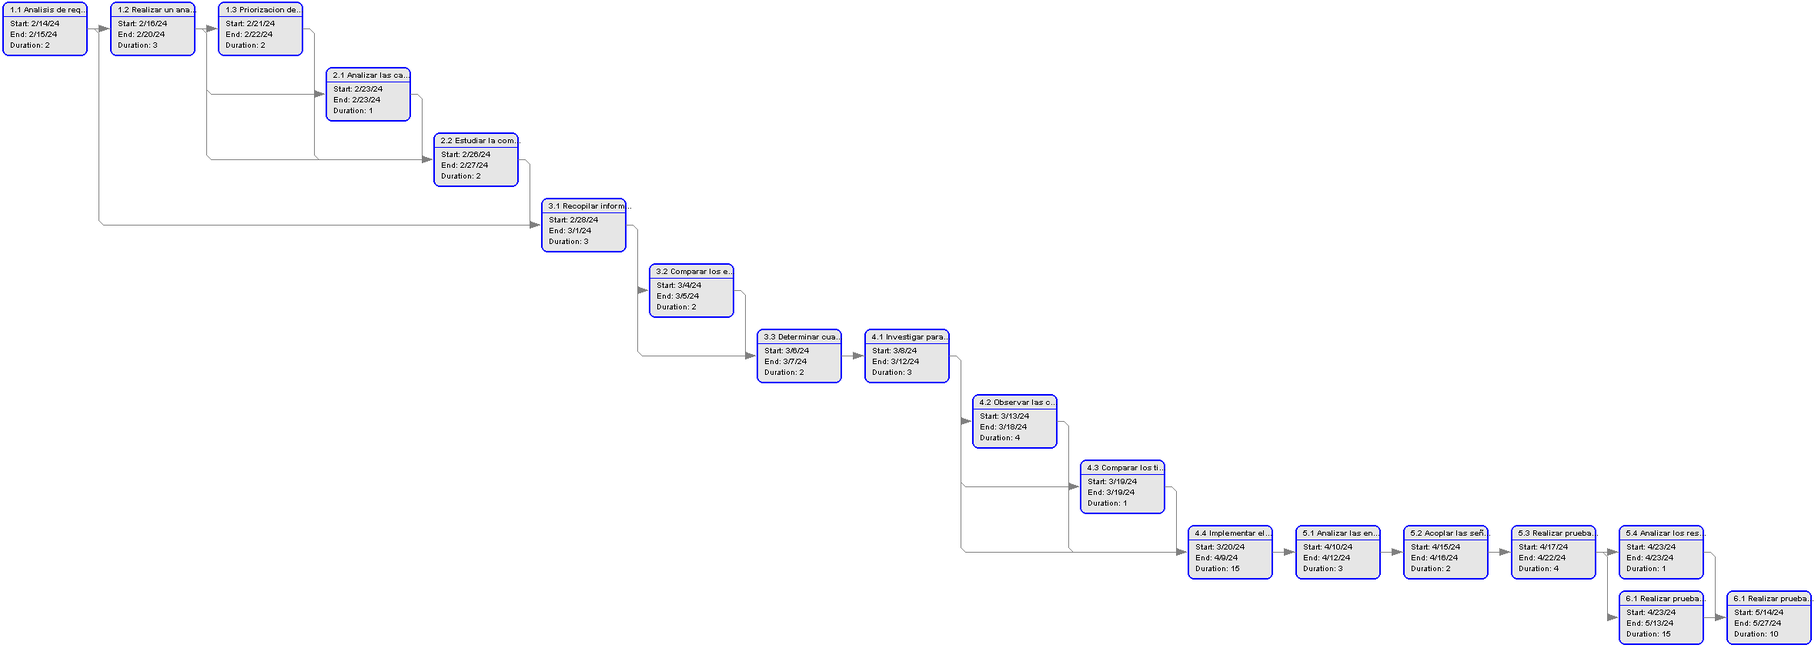
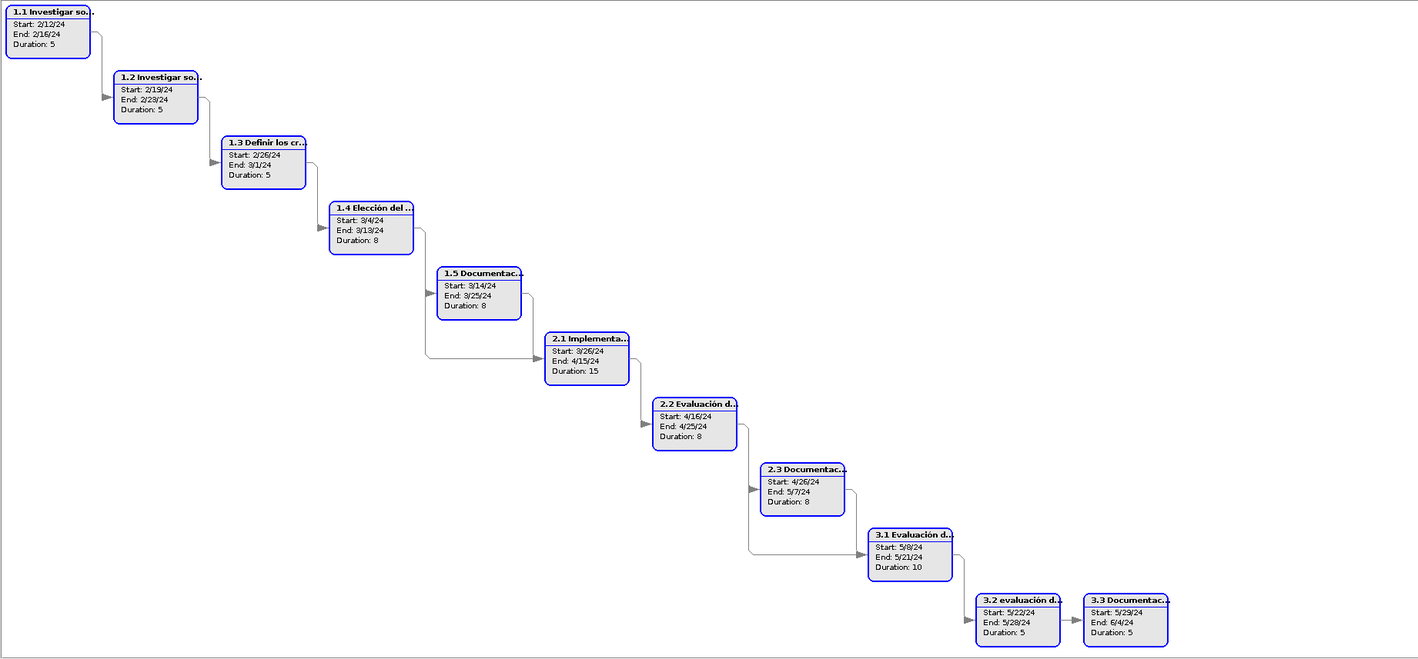
Entrega de anteproyecto David Duarte Tec Digital

Changed region(s): [[0.0, 0.0, 1.0, 1.0]]

diff --git a/Borrador_Anteproyecto_Duarte_Sanchez_David_Felipe/Borrador_Anteproyecto_David_Duarte.tex b/Borrador_Anteproyecto_Duarte_Sanchez_David_Felipe/Borrador_Anteproyecto_David_Duarte.tex
@@ -136,11 +136,11 @@ En el diseño de software del sistema de control, cada uno de los controladores 
 \subsection{Generalidades}
 
 
-
 %Explica el propósito de adquisicion de datos en tiempo real
 
-Las plataformas en tiempo real para control, lo cual lleva a trasladar todas estas aplicaciones a SoC de alto rendimiento tomando en cuenta que un manejo eficiente del entorno en tiempo real tiene la capacidad de acelerar las diversas tareas de control. También se debe de garantizar las restricciones temporales para ejecutar las actividades en tiempo real y asegurar que el sistema operativo tiene un comportamiento predecible. Para garantizar el cumplimiento de las restricciones es necesario realizar un análisis que permita conocer si las restricciones impuestas se van a cumplir en cualquier situación. Esto se realiza en función de como y cuando se toman las decisiones de planificación. Se dividen en dos grupos, Off-Line lo que indica que las decisiones se tomaron en la etapa de diseño y On Line cuando las decisiones se toman durante la ejecución.
+Los sistemas en tiempo real se caracterizan en sistemas críticos y acríticos, los sistemas críticos son en los que las acciones del sistema se deben de producir dentro del plazo de ejecución de la tarea. De no cumplir la tarea en el plazo establecido, ocurren fallos en la operación del sistema y perdida de datos. Se pueden encontrar en sistemas aeronáuticos, control de satélites y procesos industriales. Por otro lado, los sistemas acríticos la perdida o retraso en alguno de los plazos ocasiona que el sistema tenga una degradación durante algunos ciclos de operación, para luego recuperarse y continuar operando de forma normal \cite{de2000introduccion} \cite{alonso2010panoramica}.
 
+Las plataformas en tiempo real para aplicaciones en control automático, se implementan en SoC de alto rendimiento tomando en cuenta que un manejo eficiente del entorno en tiempo real tiene la capacidad de acelerar las diversas tareas de control. También se debe de garantizar las restricciones temporales para ejecutar las actividades en tiempo real y asegurar que el sistema operativo tiene un comportamiento predecible. Para garantizar el cumplimiento de las restricciones es necesario realizar un análisis que permita conocer si las restricciones impuestas se van a cumplir en cualquier situación. Esto se realiza en función de como y cuando se toman las decisiones de planificación. Se dividen en dos grupos, Off-Line lo que indica que las decisiones se tomaron en la etapa de diseño y On Line cuando las decisiones se toman durante la ejecución \cite{munoz1994extensiones} \cite{alonso2010panoramica}.
 
 
 \subsection{Síntesis del problema}
@@ -159,14 +159,14 @@ Con una matriz de Pugh se analizan caminos de solución, con el objetivo de sele
 
 %Diseñar una plataforma de trabajo para un sistema embebido que logre ejecutar en tiempo real un sistema de control automático neuronal.
 
-Como primera alternativa, se plantea el diseño de una plataforma de trabajo para un sistema embebido, que logre ejecutar en tiempo real, un sistema de control automático neuronal
+Se plantea el diseño de una plataforma de trabajo para un sistema embebido, que logre ejecutar en tiempo real, un sistema de control automático neuronal mediante un acelerador de hardware. Para esta alternativa se propone el uso de un sistema propietario, un hardware dedicado que funciona con un software propietario para mejorar el rendimiento de tareas\cite{zhao2017hardware} \cite{shi2011vcuda}. Mediante el uso de TPU con el fin de acelerar operaciones de aprendizaje automático. Utilizando estos sistemas se obtiene un rendimiento optimizado, ya que trabajan de forma eficiente y optimizada con el hardware específico, también una integración profunda lo cual facilita el desarrollo, por tanto, tienden a ser sistemas más rápidos, finalmente, los sistemas propietarios en algunos casos proveen soporte del fabricante. Por otro lado, experimentan bloqueos de proveedor, lo que limita la flexibilidad e interoperabilidad de interactuar con otros sistemas \cite{deng2020model} \cite{duato2011enabling}.
 
 \subsection{Alternativa 2}
 
-Como segunda alternativa se propone hacer uso de aprendizaje automático para construir una plataforma de trabajo para un sistema embebido que logre ejecutar en tiempo real un sistema de control automatico neuronal
-
+Se plantea el diseño de una plataforma de trabajo para un sistema embebido, que logre ejecutar en tiempo real, un sistema de control automático neuronal mediante un acelerador de hardware. En este caso se propone el uso de un sistema abierto, buscando mejorar el rendimiento y la eficiencia de los sistemas mediante la utilización de hardware especializado, pero garantizando que el desarrollo y diseño sea abierto \cite{scarpino2011opencl} \cite{owaida2011massively}. El uso de la TPU permite acelerar las operaciones de aprendizaje automático, el controlador neuronal y mejorar los parámetros de tasa de muestreo, jitter de entrada y jitter de salida. Además, nos permite tener más transparencia al operar con el sistema, tomando en cuenta la flexibilidad del sistema y personalización permitiendo la adaptación del hardware a necesidades específicas y el costo reducido al implementar esta alternativa. Por otro lado, los sistemas abiertos no presentan soporte por parte del fabricante, también no siempre van a proporcionar el mismo nivel de rendimiento que las soluciones propietarias \cite{meyer2020evaluating} \cite{verma2016accelerating}.
 
 \subsection{Alternativa 3}
+Se plantea el diseño de una plataforma de trabajo para un sistema embebido, que logre ejecutar en tiempo real, un sistema de control automático neuronal mediante aceleración de software, mejorando de esta forma la eficiencia y velocidad de ejecución \cite{galan2000control}. Mediante variables como la optimización de código, paralelización de tareas e implementando técnicas de caché y preprocesamiento. Se podrá tener una respuesta rápida y optimización de recursos. Por otro lado, aspectos como la dificultad de depuración, fallos críticos y limitantes a nivel de hardware son algunas de las desventajas de esta implementación \cite{kim1994software} \cite{razdan1994prisc}.
 
 
 \subsection{Selección de la solución}
@@ -177,34 +177,40 @@ Matriz de pugh que compara las 3 alternativas Cuadro \ref{tab:pugh}.
 % \usepackage[table,xcdraw]{xcolor}
 % Beamer presentation requires \usepackage{colortbl} instead of \usepackage[table,xcdraw]{xcolor}
 \begin{table}[!h]
+% Please add the following required packages to your document preamble:
+
   \centering
   \caption{Matriz de Pugh para la selección de la solución}
   \label{tab:pugh}
-  \begin{tabular}{lllll}
-    \cline{2-5}
-    \multicolumn{1}{l|}{}                                                             & \multicolumn{1}{l|}{\cellcolor[HTML]{DAE8FC}Peso} & \multicolumn{1}{l|}{\cellcolor[HTML]{DAE8FC}Alternativa 1} & \multicolumn{1}{l|}{\cellcolor[HTML]{DAE8FC}Alternativa 2} & \multicolumn{1}{l|}{\cellcolor[HTML]{DAE8FC}Alternativa 3} \\ \hline
-    \multicolumn{1}{|l|}{\cellcolor[HTML]{DAE8FC}Criterios}                           & \multicolumn{1}{l|}{\cellcolor[HTML]{CBCEFB}}     & \multicolumn{1}{l|}{}                                      & \multicolumn{1}{l|}{}                                      & \multicolumn{1}{l|}{}                                      \\ \hline
-    \multicolumn{1}{|l|}{\cellcolor[HTML]{DAE8FC}Ejecución en tiempo real}            & \multicolumn{1}{l|}{\cellcolor[HTML]{CBCEFB}5}    & \multicolumn{1}{l|}{$=$}                                   & \multicolumn{1}{l|}{0}                                     & \multicolumn{1}{l|}{0}                                     \\ \hline
-    \multicolumn{1}{|l|}{\cellcolor[HTML]{DAE8FC}Seguridad e integridad de la planta} & \multicolumn{1}{l|}{\cellcolor[HTML]{CBCEFB}5}    & \multicolumn{1}{l|}{$=$}                                   & \multicolumn{1}{l|}{0}                                     & \multicolumn{1}{l|}{$-1$}                                  \\ \hline
-    \multicolumn{1}{|l|}{\cellcolor[HTML]{DAE8FC}Porteabilidad de la solución}        & \multicolumn{1}{l|}{\cellcolor[HTML]{CBCEFB}5}    & \multicolumn{1}{l|}{$=$}                                   & \multicolumn{1}{l|}{$+1$}                                  & \multicolumn{1}{l|}{$-1$}                                  \\ \hline
-    \multicolumn{1}{|l|}{\cellcolor[HTML]{DAE8FC}Ajuste de parametros}                & \multicolumn{1}{l|}{\cellcolor[HTML]{CBCEFB}3}    & \multicolumn{1}{l|}{$=$}                                   & \multicolumn{1}{l|}{$+1$}                                  & \multicolumn{1}{l|}{$+1$}                                  \\ \hline
-    \multicolumn{1}{|l|}{\cellcolor[HTML]{DAE8FC}Tiempo de desarrollo}                & \multicolumn{1}{l|}{\cellcolor[HTML]{CBCEFB}2}    & \multicolumn{1}{l|}{$=$}                                   & \multicolumn{1}{l|}{$-1$}                                  & \multicolumn{1}{l|}{$+1$}                                  \\ \hline
-    \multicolumn{1}{|l|}{\cellcolor[HTML]{DAE8FC}Coste Económico}                     & \multicolumn{1}{l|}{\cellcolor[HTML]{CBCEFB}4}    & \multicolumn{1}{l|}{$=$}                                   & \multicolumn{1}{l|}{$+1$}                                  & \multicolumn{1}{l|}{$-1$}                                  \\ \hline
-                                                                                      &                                                   &                                                            &                                                            &                                                            \\ \cline{1-1} \cline{3-5}
-    \multicolumn{1}{|l|}{\cellcolor[HTML]{DAE8FC}Suma General}                        & \multicolumn{1}{l|}{}                             & \multicolumn{1}{l|}{0}                                     & \multicolumn{1}{l|}{10}                                    & \multicolumn{1}{l|}{$-9$}                                  \\ \cline{1-1} \cline{3-5}
-    \multicolumn{1}{|l|}{\cellcolor[HTML]{DAE8FC}Posición}                            & \multicolumn{1}{l|}{}                             & \multicolumn{1}{l|}{2}                                     & \multicolumn{1}{l|}{1}                                     & \multicolumn{1}{l|}{3}                                     \\ \cline{1-1} \cline{3-5}
+  \begin{tabular}{ccccc}
+  \cline{2-5}
+  \multicolumn{1}{l|}{} & \multicolumn{1}{c|}{\cellcolor[HTML]{DAE8FC}} & \multicolumn{1}{c|}{\cellcolor[HTML]{DAE8FC}} & \multicolumn{1}{c|}{\cellcolor[HTML]{DAE8FC}} & \multicolumn{1}{c|}{\cellcolor[HTML]{DAE8FC}} \\ \cline{1-1}
+  \rowcolor[HTML]{DAE8FC} 
+  \multicolumn{1}{|c|}{\cellcolor[HTML]{DAE8FC}Criterios} & \multicolumn{1}{c|}{\multirow{-2}{*}{\cellcolor[HTML]{DAE8FC}Peso}} & \multicolumn{1}{c|}{\multirow{-2}{*}{\cellcolor[HTML]{DAE8FC}Alternativa 1}} & \multicolumn{1}{c|}{\multirow{-2}{*}{\cellcolor[HTML]{DAE8FC}Alternativa 2}} & \multicolumn{1}{c|}{\multirow{-2}{*}{\cellcolor[HTML]{DAE8FC}Alternativa 3}} \\ \hline
+  \multicolumn{1}{|c|}{\cellcolor[HTML]{DAE8FC}\begin{tabular}[c]{@{}c@{}}Transparencia de \\ operación\end{tabular}} & \multicolumn{1}{c|}{\cellcolor[HTML]{CBCEFB}3} & \multicolumn{1}{c|}{-1} & \multicolumn{1}{c|}{+1} & \multicolumn{1}{c|}{=} \\ \hline
+  \multicolumn{1}{|c|}{\cellcolor[HTML]{DAE8FC}\begin{tabular}[c]{@{}c@{}}Flexibilidad y\\ Personalización\end{tabular}} & \multicolumn{1}{c|}{\cellcolor[HTML]{CBCEFB}5} & \multicolumn{1}{c|}{-1} & \multicolumn{1}{c|}{+1} & \multicolumn{1}{c|}{=} \\ \hline
+  \multicolumn{1}{|c|}{\cellcolor[HTML]{DAE8FC}\begin{tabular}[c]{@{}c@{}}Costo de \\ implementación\end{tabular}} & \multicolumn{1}{c|}{\cellcolor[HTML]{CBCEFB}5} & \multicolumn{1}{c|}{-1} & \multicolumn{1}{c|}{+1} & \multicolumn{1}{c|}{=} \\ \hline
+  \multicolumn{1}{|c|}{\cellcolor[HTML]{DAE8FC}Rendimiento} & \multicolumn{1}{c|}{\cellcolor[HTML]{CBCEFB}5} & \multicolumn{1}{c|}{+1} & \multicolumn{1}{c|}{+1} & \multicolumn{1}{c|}{-1} \\ \hline
+  \multicolumn{1}{|c|}{\cellcolor[HTML]{DAE8FC}Mantenibilidad} & \multicolumn{1}{c|}{\cellcolor[HTML]{CBCEFB}4} & \multicolumn{1}{c|}{+1} & \multicolumn{1}{c|}{-1} & \multicolumn{1}{c|}{-1} \\ \hline
+  \multicolumn{1}{|c|}{\cellcolor[HTML]{DAE8FC}Innovación} & \multicolumn{1}{c|}{\cellcolor[HTML]{CBCEFB}5} & \multicolumn{1}{c|}{+1} & \multicolumn{1}{c|}{+1} & \multicolumn{1}{c|}{-1} \\ \hline
+  \multicolumn{1}{|c|}{\cellcolor[HTML]{DAE8FC}\begin{tabular}[c]{@{}c@{}}Porteabilidad de \\ la solución\end{tabular}} & \multicolumn{1}{c|}{\cellcolor[HTML]{CBCEFB}4} & \multicolumn{1}{c|}{-1} & \multicolumn{1}{c|}{+1} & \multicolumn{1}{c|}{-1} \\ \hline
+  \multicolumn{1}{|c|}{\cellcolor[HTML]{DAE8FC}Coste Económico} & \multicolumn{1}{c|}{\cellcolor[HTML]{CBCEFB}3} & \multicolumn{1}{c|}{-1} & \multicolumn{1}{c|}{+1} & \multicolumn{1}{c|}{=} \\ \hline
+  \multicolumn{1}{|c|}{\cellcolor[HTML]{DAE8FC}\begin{tabular}[c]{@{}c@{}}Ajuste de \\ parámetros\end{tabular}} & \multicolumn{1}{c|}{\cellcolor[HTML]{CBCEFB}5} & \multicolumn{1}{c|}{+1} & \multicolumn{1}{c|}{+1} & \multicolumn{1}{c|}{+1} \\ \hline
+  \multicolumn{1}{|c|}{\cellcolor[HTML]{DAE8FC}\begin{tabular}[c]{@{}c@{}}Ejecución en \\ tiempo real\end{tabular}} & \multicolumn{1}{c|}{\cellcolor[HTML]{CBCEFB}5} & \multicolumn{1}{c|}{+1} & \multicolumn{1}{c|}{+1} & \multicolumn{1}{c|}{+1} \\ \hline
+  \multicolumn{1}{l}{} & \multicolumn{1}{l}{} & \multicolumn{1}{l}{} & \multicolumn{1}{l}{} & \multicolumn{1}{l}{} \\ \cline{1-1} \cline{3-5} 
+  \multicolumn{1}{|c|}{\cellcolor[HTML]{DAE8FC}Suma General} & \multicolumn{1}{c|}{} & \multicolumn{1}{c|}{4} & \multicolumn{1}{c|}{36} & \multicolumn{1}{c|}{-8} \\ \cline{1-1} \cline{3-5} 
+  \multicolumn{1}{|c|}{\cellcolor[HTML]{DAE8FC}Posición} & \multicolumn{1}{c|}{} & \multicolumn{1}{c|}{2} & \multicolumn{1}{c|}{1} & \multicolumn{1}{c|}{3} \\ \cline{1-1} \cline{3-5} 
   \end{tabular}
-\end{table}
+  \end{table}
 
 
-Cuando se realiza el análisis de la Matriz de Pugh se puede determinar que en aspectos como lo son ajustes de parámetros o innovación la Alternativa 2 y 3 se encuentran empatadas ya que hay que recordar que lo que difiere entre estas dos opciones es el método de implementación, por un lado en la Alternativa 2 se propone el uso de un software agnóstico de Hardware como base del diseño mientras que en la Alternativa 3 se plantea el uso de un método mas tradicional y dependiente del hardware, eliminando virtudes de la alternativa 2 como lo era la portabilidad de la solución a otros sistemas de control sin importar sobre el hardware que se ejecutara el mismo. Es por esto que criterios como lo fueron el costo económico terminaron de inclinar la balanza por el uso de la Alternativa 2.
-
+Cuando se realiza el análisis de la Matriz de Pugh se puede determinar que en aspectos como lo son ajustes de parámetros o innovación la Alternativa 2 y 3 se encuentran empatadas, ya que hay que recordar que lo que difiere entre estas dos opciones es el método de implementación, por un lado, en la Alternativa 2 se propone el uso de un software agnóstico de Hardware como base del diseño mientras que en la Alternativa 3 se plantea el uso de un método más tradicional y dependiente del hardware, eliminando virtudes de la alternativa 2 como lo era la portabilidad de la solución a otros sistemas de control sin importar sobre el hardware que se ejecutara el mismo. Es por esto que criterios como lo fueron el costo económico terminaron de inclinar la balanza por el uso de la Alternativa 2.
 
 \section{Objetivo General}
 
 Diseñar una plataforma de trabajo para un sistema embebido que logre ejecutar en tiempo real un sistema de control automático neuronal.
 
-\textbf{Indicador:} Cumplir al menos un 90 \% de las métricas especificadas en la Cuadro \ref{tab:obj_1}.\newline
+\textbf{Indicador:} Cumplir al menos un 90 \% de las métricas especificadas en el Cuadro \ref{tab:obj_1}.\newline
 \textbf{Entregable:} .
 
 
@@ -215,7 +221,7 @@ Diseñar una plataforma de trabajo para un sistema embebido que logre ejecutar e
   \begin{tabular}{|l|}
     \hline
     \rowcolor[HTML]{DAE8FC} 
-    Requerimientos \\ \hline
+    Requisitos \\ \hline
     Latencia menor a 50 ms\\ \hline
     Tasa de éxito de transmisión de al menos un 90\%\\ \hline
     Disponibilidad del sistema de al menos un 85 \% \\ \hline
@@ -235,7 +241,7 @@ Diseñar una plataforma de trabajo para un sistema embebido que logre ejecutar e
         \textbf{Indicador:} Se genera una matriz de Pugh con al menos 6 criterios.\newline
         \textbf{Entregable:} Matriz de Pugh con al menos 6 criterios a evaluar del sistema en tiempo real y la plataforma seleccionada.
   \item Implementar la plataforma seleccionada \newline
-        \textbf{Indicador:} Se hace la implementación y se verifica que la misma cumpla con los requerimientos del Cuadro \ref{tab:obj_1}.\newline
+        \textbf{Indicador:} Se hace la implementación y se verifica que la misma cumpla con los requisitos del Cuadro \ref{tab:obj_1}.\newline
         \textbf{Entregable:} El sistema implementado.
   \item Evaluar la plataforma seleccionada \newline
         \textbf{Indicador:} Se evaluan al menos 3 configuraciones del sistema y se utilizan al menos 3 métricas para la evaluación del desempeño de las mismas.\newline
@@ -244,7 +250,7 @@ Diseñar una plataforma de trabajo para un sistema embebido que logre ejecutar e
 
 \section{Procedimiento para la ejecución del proyecto}
 
-Sobre la ejecución del proyecto se planifican las actividades de forma jerárquica, en donde se establecen actividades según los objetivos planteados, los requisitos de las actividades y la dependencia que tenga este mismo con alguna actividad previa. Además de esto se definen los tiempos de duración de las actividades las cuales se resumen en la Cuadro \ref{tab:actividades}.
+Sobre la ejecución del proyecto se planifican las actividades de forma jerárquica, en donde se establecen actividades según los objetivos planteados, los requisitos de las actividades y la dependencia que tenga este mismo con alguna actividad previa. Además de esto se definen los tiempos de duración de las actividades las cuales se resumen en el Cuadro \ref{tab:actividades}.
 
 % Please add the following required packages to your document preamble:
 % \usepackage{multirow}
@@ -255,21 +261,25 @@ Sobre la ejecución del proyecto se planifican las actividades de forma jerárqu
   \begin{tabular}{|c|l|l|l|}
     \hline
     Objetivo                                                                                                                                                                  & Actividad                                                                                                                      & Tiempo en días & Dependencias \\ \hline
-    \multirow{4}{*}{\begin{tabular}[c]{@{}c@{}}1.Investigar acerca de \\ plataformas que \\ garantizen que el análisis \\ de los datos \\ se dé en tiempo real.\end{tabular}} & \begin{tabular}[c]{@{}l@{}}1.1 Investigar sobre \\ sistemas en tiempo \\ real.\end{tabular}                                    & 10             &              \\ \cline{2-4}
-                                                                                                                                                                              & \begin{tabular}[c]{@{}l@{}}1.2 Investigar sobre \\ análisis de datos en \\ tiempo real.\end{tabular}                           & 10             & 1.1          \\ \cline{2-4}
+    \multirow{4}{*}{\begin{tabular}[c]{@{}c@{}} 1.Investigar acerca de \\ plataformas que \\ garantizen que el análisis \\ de los datos \\ se dé en tiempo real.\end{tabular}} & \begin{tabular}[c]{@{}l@{}}1.1 Investigar sobre \\ sistemas en tiempo \\ real.\end{tabular}                                    & 5            &              \\ \cline{2-4}
+                                                                                                                                                                              & \begin{tabular}[c]{@{}l@{}}1.2 Investigar sobre \\ análisis de datos en \\ tiempo real.\end{tabular}                           & 5             & 1.1          \\ \cline{2-4}
                                                                                                                                                                               & \begin{tabular}[c]{@{}l@{}}1.3 Definir los criterios \\ del sistema de tiempo \\ real.\end{tabular}                            & 5              & 1.2          \\ \cline{2-4}
-                                                                                                                                                                              & \begin{tabular}[c]{@{}l@{}}1.4 Elección del\\ sistema.\end{tabular}                                               & 8              & 1.3          \\ \hline
+                                                                                                                                                                              & \begin{tabular}[c]{@{}l@{}}1.4 Elección del\\ sistema.\\ del sistema de tiempo \\ real.\end{tabular}                            & 8              & 1.2          \\ \cline{2-4}
+                                                                                                                                                                              & \begin{tabular}[c]{@{}l@{}}1.5 Documentación de los datos \end{tabular}                                                         & 8              & 1.4          \\ \hline
     \multicolumn{1}{|l|}{\multirow{2}{*}{\begin{tabular}[c]{@{}l@{}}2. Implementar la plataforma \\ seleccionada.\end{tabular}}}                                              & \begin{tabular}[c]{@{}l@{}}2.1 Implementación del \\ sistema seleccionado.\end{tabular}                                        & 15             & 1.4          \\ \cline{2-4}
-    \multicolumn{1}{|l|}{}                                                                                                                                                    & \begin{tabular}[c]{@{}l@{}}2.2 Evaluación de los \\ parametros seleccionados\\  en el sistema.\end{tabular}                    & 10             & 2.1          \\ \hline
-    \multicolumn{1}{|l|}{\multirow{2}{*}{\begin{tabular}[c]{@{}l@{}}3. Evaluar la plataforma \\ seleccionada\end{tabular}}}                                                   & \begin{tabular}[c]{@{}l@{}}3.1 Evaluación de las \\ configuraciones del \\ sistema.\end{tabular}                               & 15             & 2.2          \\ \cline{2-4}
-    \multicolumn{1}{|l|}{}                                                                                                                                                    & \begin{tabular}[c]{@{}l@{}}3.2 Evaluación del \\ desempeño del sistema \\ mediante las métricas \\ seleccionadas.\end{tabular} & 12             & 3.1          \\ \hline
+    \multicolumn{1}{|l|}{}                                                                                                                                                    & \begin{tabular}[c]{@{}l@{}}2.2 Evaluación de los \\ parametros seleccionados\\  en el sistema.\end{tabular}                    & 8             & 2.1          \\ \cline{2-4}
+    \multicolumn{1}{|l|}{}                                                                                                                                                    & \begin{tabular}[c]{@{}l@{}}2.3 Documentación de los datos.\end{tabular}                    & 8             & 2.2          \\ \hline
+    \multicolumn{1}{|l|}{\multirow{2}{*}{\begin{tabular}[c]{@{}l@{}}3. Evaluar la plataforma \\ seleccionada\end{tabular}}}                                                   & \begin{tabular}[c]{@{}l@{}}3.1 Evaluación de las \\ configuraciones del \\ sistema.\end{tabular}                               & 10            & 2.2          \\ \cline{2-4}
+    \multicolumn{1}{|l|}{}                                                                                                                                                    & \begin{tabular}[c]{@{}l@{}}3.2 Evaluación del \\ desempeño del sistema \\ mediante las métricas \\ seleccionadas.\end{tabular} & 5            & 3.2          \\ \cline{2-4}
+    \multicolumn{1}{|l|}{}                                                                                                                                                    & \begin{tabular}[c]{@{}l@{}}3.3 Documentación de los datos. \end{tabular} & 5            & 3.1          \\ \hline    
   \end{tabular}
 \end{table}
 
 
 \section{Cronograma de actividades}
 
-La agenda de actividades según el tiempo asignado comprende desde el  5 de Febrero del 2024 hasta el 25 de Mayo del 2024, tiempo el cual abarca 16 semanas lectivas en las cuales se llevara a cabo el desarrollo del proyecto. Por un lado el cronograma se presenta como un diagrama de Gantt. El mismo ilustra en la Figura \ref{fig:gantt}. Por otro lado en la Figura \ref{fig:pert} se muestra el diagrama de PERT con las dependencias entre actividades.
+La agenda de actividades según el tiempo asignado comprende desde el  5 de febrero del 2024 hasta el 25 de mayo del 2024, tiempo el cual abarca 16 semanas lectivas en las cuales se llevara a cabo el desarrollo del proyecto. Por un lado, el cronograma se presenta como un diagrama de Gantt. El mismo ilustra en la Figura \ref{fig:gantt}. Por otro lado, en la Figura \ref{fig:pert} se muestra el diagrama de PERT con las dependencias entre actividades.
+
 \newpage
 
 \begin{figure}
@@ -289,7 +299,7 @@ La agenda de actividades según el tiempo asignado comprende desde el  5 de Febr
 
 \subsection{Entregables}
 
-Como se puede observar en la Cuadro \ref{tab:entregables} se encuentra una lista de los entregables con sus objetivos y fechas de entrega establecidas en el periodo donde se llevara a cabo el trabajo final de graduación.
+Como se puede observar en el Cuadro \ref{tab:entregables} se encuentra una lista de los entregables con sus objetivos y fechas de entrega establecidas en el periodo donde se llevara a cabo el trabajo final de graduación.
 
 \begin{table}[ht]
   \centering
@@ -298,10 +308,10 @@ Como se puede observar en la Cuadro \ref{tab:entregables} se encuentra una lista
   \begin{tabular}{|l|l|l|}
     \hline
     Objetivo         & Entregable                                                                                                                                                                & Fecha de entrega \\ \hline
-    Específico 1     & \begin{tabular}[c]{@{}l@{}}Matriz de pugh con al menos \\ 6 criterios a evaluar del sistema \\ en tiempo real y el sistema \\ seleccionado.\end{tabular}                  &                  \\ \hline
-    Específico 2     & El sistema implementado                                                                                                                                                   &                  \\ \hline
-    Específico 3     & \begin{tabular}[c]{@{}l@{}}Métricas de calidad en donde \\ se define cual confuiguración \\ es mejor según la métrica \\ seleccionada.\end{tabular}                       &                  \\ \hline
-    Objetivo general & \begin{tabular}[c]{@{}l@{}}Plataforma de trabajo en tiempo\\ real para un sistema embebido\\ que logre ejecutar un sistema de \\ control automático neuronal\end{tabular} &                  \\ \hline
+    Específico 1     & \begin{tabular}[c]{@{}l@{}}Matriz de pugh con al menos \\ 6 criterios a evaluar del sistema \\ en tiempo real y el sistema \\ seleccionado.\end{tabular}                  &   25/3/2024       \\ \hline
+    Específico 2     & El sistema implementado                                                                                                                                                   &   7/5/2024      \\ \hline
+    Específico 3     & \begin{tabular}[c]{@{}l@{}}Métricas de calidad en donde \\ se define cual confuiguración \\ es mejor según la métrica \\ seleccionada.\end{tabular}                       &   21/5/2024      \\ \hline
+    Objetivo general & \begin{tabular}[c]{@{}l@{}}Plataforma de trabajo en tiempo\\ real para un sistema embebido\\ que logre ejecutar un sistema de \\ control automático neuronal\end{tabular} &   4/6/2024      \\ \hline
   \end{tabular}
 \end{table}
 
